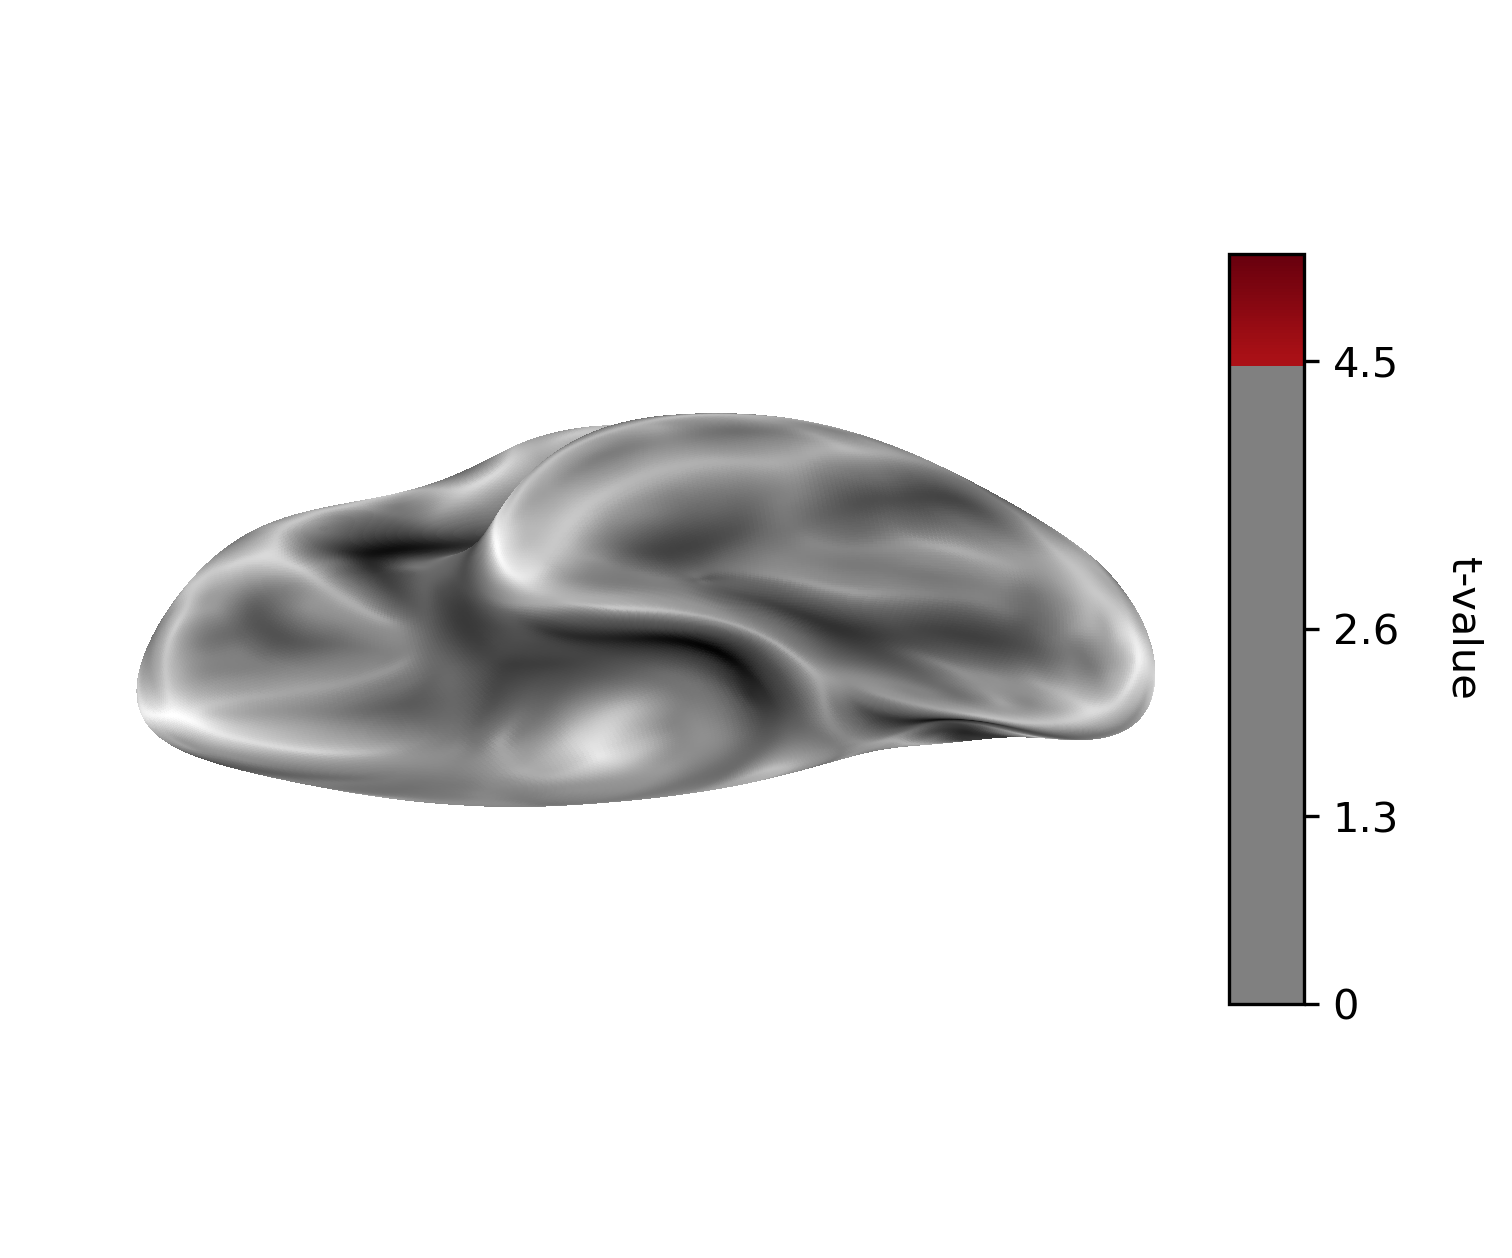
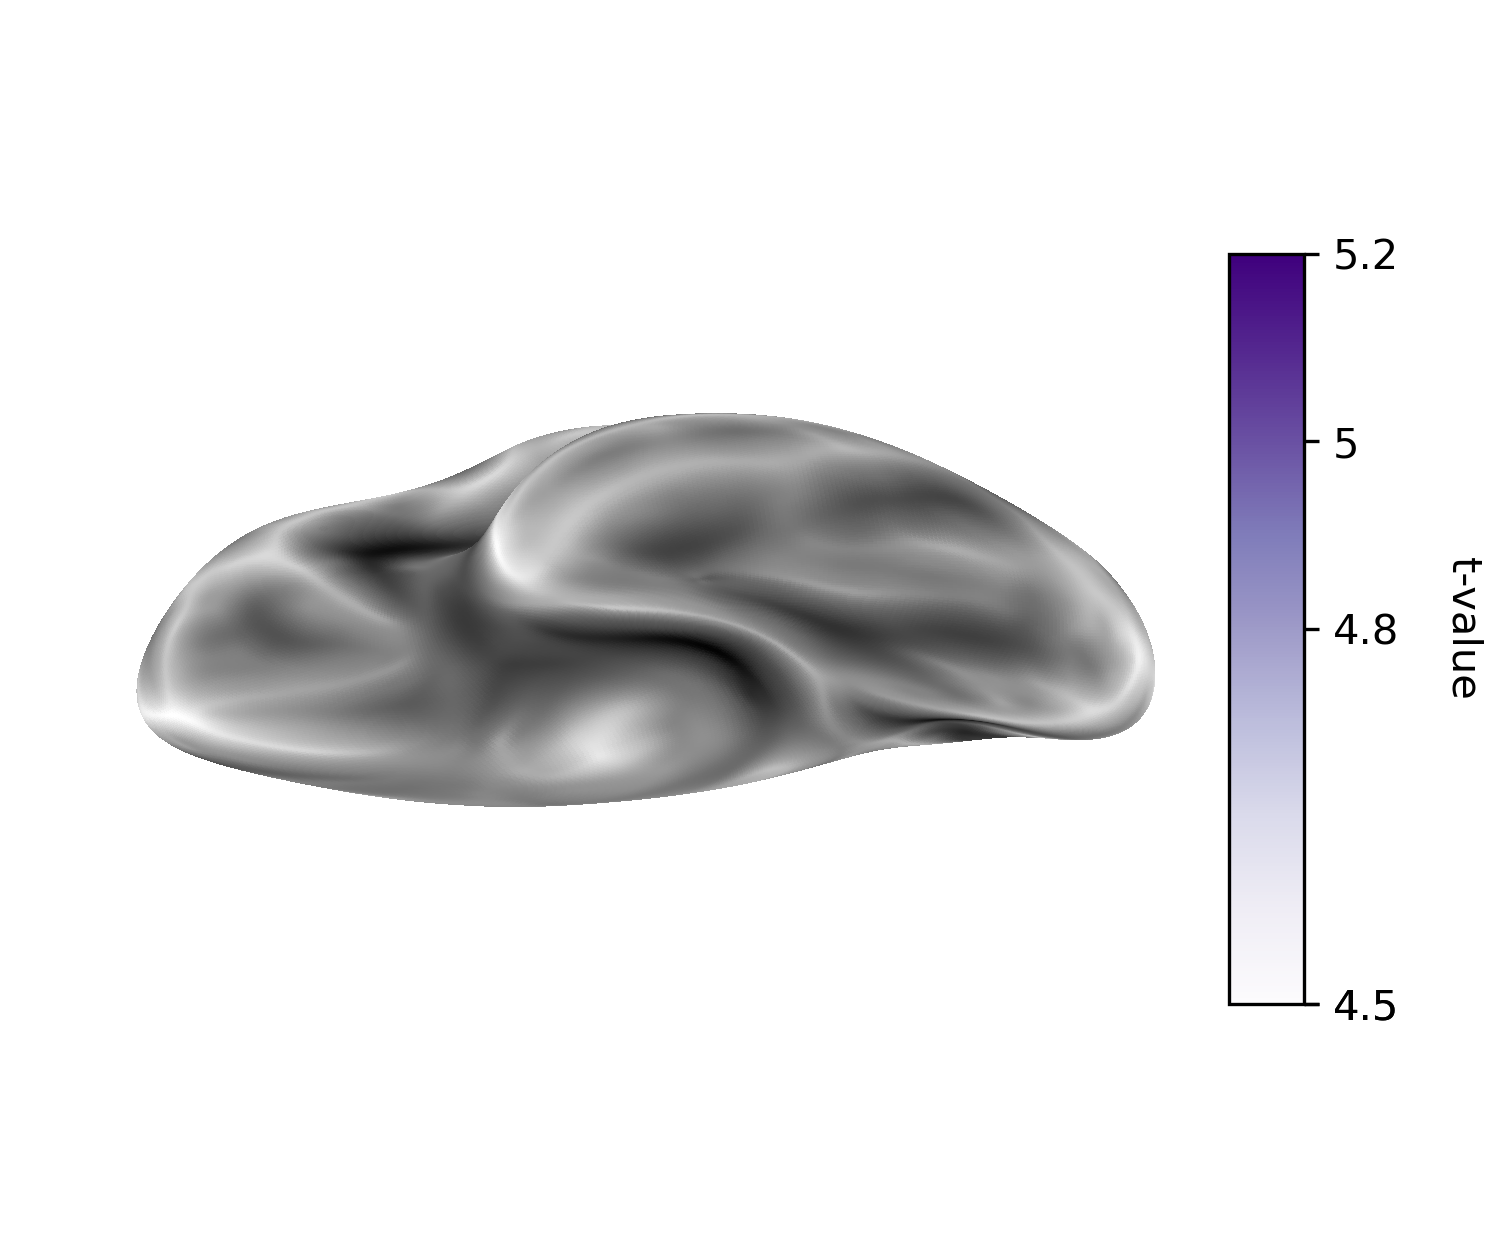
pointlight plot

Changed region(s): [[0.8082, 0.186, 0.9325, 0.806]]

diff --git a/code/plot_surfaces.py b/code/plot_surfaces.py
@@ -96,13 +96,13 @@ def main():
     parser = argparse.ArgumentParser(description='Plot pretty surface maps for a given contrast')
     parser.add_argument('--dataset_path', '-d', type=str,
                         default='/orcd/data/ngk/001/users/emaliem/sts_communication')
-    parser.add_argument('--condition_one', '-c1', type=str, default='face_third+face_first+com_phy+com_ind',
+    parser.add_argument('--condition_one', '-c1', type=str, default='interact',
                          help='The first condition for the second level analysis')
-    parser.add_argument('--condition_two', '-c2', type=str, default='face_noncom+phy+ind',
+    parser.add_argument('--condition_two', '-c2', type=str, default='noninteract',
                          help='The second condition for the second level analysis')
     parser.add_argument('--palette_name', type=str, default='Reds',
                          help='Seaborn color palette name')
-    parser.add_argument('--task', '-t', type=str, default='communicate',
+    parser.add_argument('--task', '-t', type=str, default='pointlight',
                          help='Task label for the analysis')
     args = parser.parse_args()
     PlotSurfaces(args).plot()
